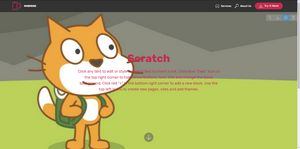
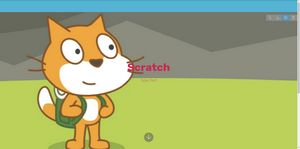
Started to add pages

Changed region(s): [[0.0, 0.0, 1.0, 0.1074], [0.24, 0.349, 0.72, 0.6174], [0.99, 0.5906, 1.0, 0.6443]]

diff --git a/assets/mobirise/css/mbr-additional.css b/assets/mobirise/css/mbr-additional.css
@@ -712,12 +712,12 @@ section.lazy-placeholder:after {
 }
 .cid-qTkzRZLJNu .navbar {
   padding: .5rem 0;
-  background: #333333;
+  background: #55b4d4;
   transition: none;
   min-height: 77px;
 }
 .cid-qTkzRZLJNu .navbar-dropdown.bg-color.transparent.opened {
-  background: #333333;
+  background: #55b4d4;
 }
 .cid-qTkzRZLJNu a {
   font-style: normal;
@@ -801,7 +801,7 @@ section.lazy-placeholder:after {
   padding-bottom: 0;
 }
 .cid-qTkzRZLJNu .dropdown .dropdown-menu {
-  background: #333333;
+  background: #55b4d4;
   display: none;
   position: absolute;
   min-width: 5rem;
@@ -937,6 +937,10 @@ section.lazy-placeholder:after {
 .cid-qTkzRZLJNu .collapsed .navbar-collapse.show .navbar-nav .nav-item {
   clear: both;
 }
+.cid-qTkzRZLJNu .collapsed .navbar-collapse.collapsing .navbar-nav .nav-item:last-child,
+.cid-qTkzRZLJNu .collapsed .navbar-collapse.show .navbar-nav .nav-item:last-child {
+  margin-bottom: 1rem;
+}
 .cid-qTkzRZLJNu .collapsed .navbar-collapse.collapsing .navbar-buttons,
 .cid-qTkzRZLJNu .collapsed .navbar-collapse.show .navbar-buttons {
   text-align: center;
@@ -1030,6 +1034,10 @@ section.lazy-placeholder:after {
   .cid-qTkzRZLJNu .navbar-collapse.collapsing .navbar-nav .nav-item,
   .cid-qTkzRZLJNu .navbar-collapse.show .navbar-nav .nav-item {
     clear: both;
+  }
+  .cid-qTkzRZLJNu .navbar-collapse.collapsing .navbar-nav .nav-item:last-child,
+  .cid-qTkzRZLJNu .navbar-collapse.show .navbar-nav .nav-item:last-child {
+    margin-bottom: 1rem;
   }
   .cid-qTkzRZLJNu .navbar-collapse.collapsing .navbar-buttons,
   .cid-qTkzRZLJNu .navbar-collapse.show .navbar-buttons {
@@ -1104,7 +1112,7 @@ section.lazy-placeholder:after {
 .cid-rHPZsQcUal {
   padding-top: 90px;
   padding-bottom: 90px;
-  background-image: url("../../../assets/images/background4.jpg");
+  background-color: #55b4d4;
 }
 .cid-rHPZsQcUal h4 {
   font-weight: 500;
@@ -1128,7 +1136,6 @@ section.lazy-placeholder:after {
 .cid-rHPZsQcUal .card-box {
   padding-bottom: 2rem;
   background-color: #149dcc;
-  background: linear-gradient(#149dcc, transparent);
 }
 .cid-rHPZsQcUal .card-box .card-title {
   margin: 0;
@@ -1147,12 +1154,12 @@ section.lazy-placeholder:after {
 }
 .cid-qTkzRZLJNu .navbar {
   padding: .5rem 0;
-  background: #333333;
+  background: #55b4d4;
   transition: none;
   min-height: 77px;
 }
 .cid-qTkzRZLJNu .navbar-dropdown.bg-color.transparent.opened {
-  background: #333333;
+  background: #55b4d4;
 }
 .cid-qTkzRZLJNu a {
   font-style: normal;
@@ -1236,7 +1243,7 @@ section.lazy-placeholder:after {
   padding-bottom: 0;
 }
 .cid-qTkzRZLJNu .dropdown .dropdown-menu {
-  background: #333333;
+  background: #55b4d4;
   display: none;
   position: absolute;
   min-width: 5rem;
@@ -1372,6 +1379,10 @@ section.lazy-placeholder:after {
 .cid-qTkzRZLJNu .collapsed .navbar-collapse.show .navbar-nav .nav-item {
   clear: both;
 }
+.cid-qTkzRZLJNu .collapsed .navbar-collapse.collapsing .navbar-nav .nav-item:last-child,
+.cid-qTkzRZLJNu .collapsed .navbar-collapse.show .navbar-nav .nav-item:last-child {
+  margin-bottom: 1rem;
+}
 .cid-qTkzRZLJNu .collapsed .navbar-collapse.collapsing .navbar-buttons,
 .cid-qTkzRZLJNu .collapsed .navbar-collapse.show .navbar-buttons {
   text-align: center;
@@ -1466,6 +1477,10 @@ section.lazy-placeholder:after {
   .cid-qTkzRZLJNu .navbar-collapse.show .navbar-nav .nav-item {
     clear: both;
   }
+  .cid-qTkzRZLJNu .navbar-collapse.collapsing .navbar-nav .nav-item:last-child,
+  .cid-qTkzRZLJNu .navbar-collapse.show .navbar-nav .nav-item:last-child {
+    margin-bottom: 1rem;
+  }
   .cid-qTkzRZLJNu .navbar-collapse.collapsing .navbar-buttons,
   .cid-qTkzRZLJNu .navbar-collapse.show .navbar-buttons {
     text-align: center;
@@ -1529,10 +1544,14 @@ section.lazy-placeholder:after {
 .cid-rHQ6fZKPeg {
   padding-top: 90px;
   padding-bottom: 90px;
-  background-color: #efefef;
+  background-color: #55b4d4;
 }
 .cid-rHQ6fZKPeg P {
   color: #767676;
+}
+.cid-rHQ6fZKPeg .mbr-text,
+.cid-rHQ6fZKPeg .mbr-section-btn {
+  color: #073b4c;
 }
 .cid-rHQ8vMBkBY {
   padding-top: 90px;

diff --git a/index.html b/index.html
@@ -75,7 +75,7 @@
     </nav>
 </section>
 
-<section class="engine"><a href="https://mobirise.info/i">web creation software</a></section><section class="cid-qTkA127IK8 mbr-fullscreen mbr-parallax-background" id="header2-1">
+<section class="engine"><a href="https://mobirise.info/p">website templates free download</a></section><section class="cid-qTkA127IK8 mbr-fullscreen mbr-parallax-background" id="header2-1">
 
     
 
@@ -87,9 +87,7 @@
                 <h1 class="mbr-section-title mbr-bold pb-3 mbr-fonts-style display-1">
                     Scratch</h1>
                 
-                <p class="mbr-text pb-3 mbr-fonts-style display-5">
-                    Click any text to edit or style it. Select text to insert a link. Click blue "Gear" icon in the top right corner to hide/show buttons, text, title and change the block background. Click red "+" in the bottom right corner to add a new block. Use the top left menu to create new pages, sites and add themes.
-                </p>
+                <p class="mbr-text pb-3 mbr-fonts-style display-5"></p>
                 
             </div>
         </div>
@@ -101,32 +99,25 @@
     </div>
 </section>
 
-<section class="features8 cid-rHPZsQcUal mbr-parallax-background" id="features8-4">
+<section class="features8 cid-rHPZsQcUal" id="features8-4">
 
     
 
-    <div class="mbr-overlay" style="opacity: 0.2; background-color: rgb(35, 35, 35);">
-    </div>
+    
 
     <div class="container">
         <div class="media-container-row">
 
             <div class="card  col-12 col-md-6 col-lg-4">
                 <div class="card-img">
-                    <a href="Introduction.html"><span class="mbr-iconfont mbri-desktop"></span></a>
+                    <a href="Introduction.html"><span class="mbr-iconfont mbri-github"></span></a>
                 </div>
                 <div class="card-box align-center">
                     <h4 class="card-title mbr-fonts-style display-7">
-                        Unlimited Sites
-                    </h4>
+                        Introduction to Scratch</h4>
                     <p class="mbr-text mbr-fonts-style display-7">
-                       Mobirise gives you the freedom to develop as many websites as you like given the fact that it is a desktop app.
-                    </p>
-                    <div class="mbr-section-btn text-center">
-                        <a href="https://mobirise.co" class="btn btn-secondary display-4">
-                            More
-                        </a>
-                    </div>
+                       This tutorial will show you all about the Scratch Screeb</p>
+                    
                 </div>
             </div>
 
@@ -141,11 +132,7 @@
                     <p class="mbr-text mbr-fonts-style display-7">
                        All sites you make with Mobirise are mobile-friendly. You don't have to create a special mobile version of your site.
                     </p>
-                    <div class="mbr-section-btn text-center">
-                        <a href="https://mobirise.co" class="btn btn-secondary display-4">
-                            More
-                        </a>
-                    </div>
+                    
                 </div>
             </div>
 
@@ -160,11 +147,7 @@
                     <p class="mbr-text mbr-fonts-style display-7">
                        Mobirise offers many site blocks in several themes, and though these blocks are pre-made, they are flexible.
                     </p>
-                    <div class="mbr-section-btn text-center">
-                        <a href="https://mobirise.co" class="btn btn-secondary display-4">
-                            More
-                        </a>
-                    </div>
+                    
                 </div>
             </div>
 

diff --git a/Introduction.html b/Introduction.html
@@ -38,44 +38,18 @@
         </button>
         <div class="menu-logo">
             <div class="navbar-brand">
-                <span class="navbar-logo">
-                    <a href="https://mobirise.com">
-                         <img src="assets/images/logo2.png" alt="Mobirise" style="height: 3.8rem;">
-                    </a>
-                </span>
-                <span class="navbar-caption-wrap">
-                    <a class="navbar-caption text-white display-4" href="https://mobirise.com">
-                        MOBIRISE
-                    </a>
-                </span>
+                
+                
             </div>
         </div>
         <div class="collapse navbar-collapse" id="navbarSupportedContent">
-            <ul class="navbar-nav nav-dropdown" data-app-modern-menu="true">
-                <li class="nav-item">
-                    <a class="nav-link link text-white display-4" href="https://mobirise.com">
-                        <span class="mbri-home mbr-iconfont mbr-iconfont-btn"></span>
-                        Services
-                    </a>
-                </li>
-                <li class="nav-item">
-                    <a class="nav-link link text-white display-4" href="https://mobirise.com">
-                        <span class="mbri-search mbr-iconfont mbr-iconfont-btn"></span>
-                        About Us
-                    </a>
-                </li>
-            </ul>
-            <div class="navbar-buttons mbr-section-btn">
-                <a class="btn btn-sm btn-primary display-4" href="https://mobirise.com">
-                    <span class="mbri-save mbr-iconfont mbr-iconfont-btn "></span>
-                    Try It Now!
-                </a>
-            </div>
+            
+            
         </div>
     </nav>
 </section>
 
-<section class="engine"><a href="https://mobirise.info/q">responsive web templates</a></section><section class="header1 cid-rHQ6fZKPeg" id="header16-6">
+<section class="engine"><a href="https://mobirise.info/j">website templates</a></section><section class="header1 cid-rHQ6fZKPeg" id="header16-6">
 
     
 
@@ -85,14 +59,12 @@
         <div class="row justify-content-md-center">
             <div class="col-md-10 align-center">
                 <h1 class="mbr-section-title mbr-bold pb-3 mbr-fonts-style display-1">
-                    FULL WIDTH INTRO
-                </h1>
+                    Exploring the Scratch Screen</h1>
                 
                 <p class="mbr-text pb-3 mbr-fonts-style display-5">
-                    Full width intro with adjustable height, background image and a color overlay. Click any text to edit or style it.
+                    Scratch works by dragging and joining commands together instead of typing them.
                 </p>
-                <div class="mbr-section-btn"><a class="btn btn-md btn-black-outline display-4" href="https://mobirise.co">LEARN MORE</a>
-                </div>
+                
             </div>
         </div>
     </div>
